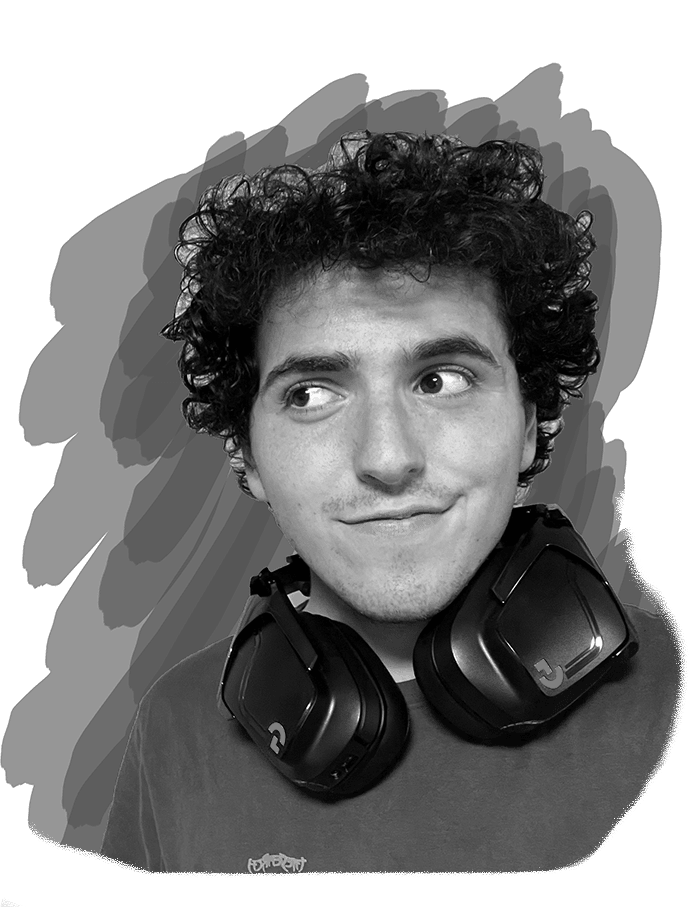
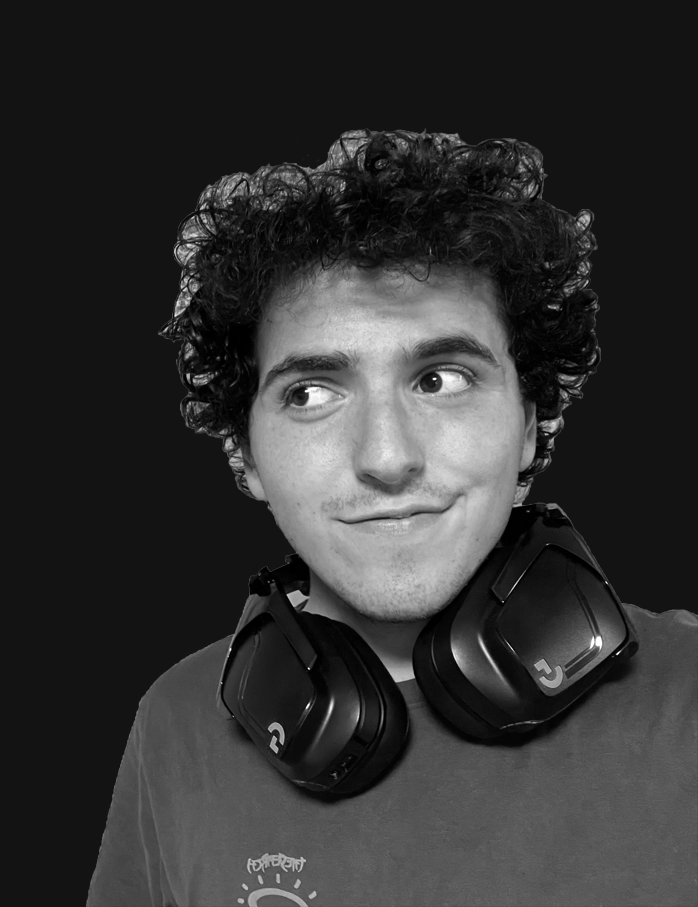
Finished Colour Fill, Added Title Animation

diff --git a/aboutme.html b/aboutme.html
@@ -11,14 +11,14 @@
 <body class="pagebody"> 
 
 <!-- Places Sidebar element + images, and references the relevant pages.--> 
-<div class="sidebar">
+<!-- <div class="sidebar">
 
     <div id="currentpage"><img class="sidebarlogo" src="../docs/about-me-symbol.png" alt="About Me Symbol" title="About Me"></div>
 
     <div class="noncurrent"><a href="./blog.html"><img class="sidebarlogo" src="../docs/blog-symbol.png" alt="Blog Symbol" title="Blog"></a></div>
 
     <div class="noncurrent"><a href="./contact.html"><img class="sidebarlogo" src="../docs/contact-symbol.png" alt="Contact Symbol" title="Contact Details"></a></div>
-</div>
+</div> -->
 
 <div class="bodyorganisation">
 
@@ -34,16 +34,18 @@
     <div id="aboutmesection">
 
         <div class="aboutmeheaders">
-            <h1 id="thisisme">Hi, I'm Bailey.</h1>
-            <h1>Here's a bit <span style="color:#703f37;">about me.</span></h1>
+            <h1 id="thisisme">Hi, I'm <span style="color:#703f37;">Bailey.</span></h1>
+            <h1>I make <span style="color:#703f37;">websites.</span></h1>
+        </div>
+
+        <div class="mask-container">
+            <img class="colour-image masksize" style="animation: addColour 600ms steps(19) forwards; animation-delay: 700ms;" src="/docs/newcolour.png">
+            <img src="./docs/newblack-white.png" class="masksize" alt="">
         </div>
 
     </div>  
 
-    <div class="mask-container">
-        <img class="colour-image masksize" style="animation: addColour 600ms steps(19) forwards; animation-delay: 700ms;" src="/docs/newcolour.png">
-        <img src="./docs/newblack-white.png" class="masksize" alt="">
-    </div>
+
 
 
 

diff --git a/stylesheets/newcss.css b/stylesheets/newcss.css
@@ -1,0 +1,88 @@
+@font-face { /* this uses a custom font, finds in the docs folder and names it Roboto */
+    font-family: Roboto;
+    src: url("../docs/Roboto-Regular.ttf");
+}
+
+@font-face {
+    font-family: ArchivoBlack;
+    src: url("../docs/ArchivoBlack-Regular.ttf");
+}
+
+.pagebody {
+    font: 1.5em/1.6em Roboto;
+    background-color: #0C1A1A;
+
+}
+
+.bodyorganisation {
+}
+
+
+#aboutmesection {
+    display: flex;
+    flex-direction: row;
+    justify-content: center;
+    align-content: center;
+    padding-inline: 5vw;
+}
+
+
+.aboutmeheaders {
+    display: flex;
+    flex-direction: column;
+    flex-wrap: wrap;
+    line-height: 200%;
+    align-self: center;
+    font-size: 1.8em;
+    font-family: ArchivoBlack;
+    color: #7f9882;
+}
+
+.mask-container {
+    position: relative;
+}
+
+.masksize {
+    width: 25rem;
+    border-radius: 25rem;
+}
+
+.colour-image {
+    position: absolute;
+
+    -webkit-mask-image: url('../docs/newimagemask.png');
+    -webkit-mask-size: cover;
+    -webkit-mask-position: 0% 0%;
+    mask-image: url('../docs/imagemask.png');
+    mask-size: cover;
+    mask-position: 0% 0%;
+
+
+    transition:
+        -webkit-mask-position 600ms steps(19);
+    }
+
+
+@keyframes addColour {
+    0% {
+        -webkit-mask-position: 0% 0%;
+        mask-position: 0% 0%;
+    }
+    100% {
+        -webkit-mask-position: 100% 0%;
+        mask-position: 100% 0%;
+    }
+}
+
+@keyframes colourReveal {
+    0% {
+        color: #403a39;
+    }
+    80% {
+        color: #403a39;
+    }
+    100% {
+        color: #703f37;
+    }
+}
+

diff --git a/newaboutme.html b/newaboutme.html
@@ -1,0 +1,36 @@
+<!DOCTYPE html> <!-- requirement to specify document type -->
+<html lang="en"> 
+
+<head> <!-- various accessability info-->
+    <title>Bailey Evans' Portfolio</title>
+
+    <link rel=stylesheet href=".\stylesheets\newcss.css"> <!-- this finds CSS styles from main.css in this repository -->
+    <link rel="icon" type="image/x-icon" href="../docs/baileyphoto.jpg"> <!-- sets webpage icon -->
+
+    <meta name="viewport" content="width=device-width, initial-scale=1.0"> 
+    <meta charset=utf-8>
+</head>
+
+
+
+<body class="pagebody"> 
+
+<div class="bodyorganisation">
+
+    <div id="aboutmesection">
+
+        <div class="aboutmeheaders">
+            <h1 id="thisisme">Hi, I'm <span style="color:#703f37; animation: colourReveal 2600ms forwards;">Bailey.</span></h1>
+            <h1>I make <span style="color:#703f37; animation: colourReveal 2600ms forwards;">websites.</span></h1>
+        </div>
+
+        <div class="mask-container">
+            <img class="colour-image masksize" style="animation: addColour 600ms steps(19) forwards; animation-delay: 1500ms;" src="/docs/newcolour.png">
+            <img src="./docs/newblack-white.png" class="masksize" alt="">
+        </div>
+
+    </div>  
+</div>
+</body>
+</html>
+

diff --git a/stylesheets/main.css b/stylesheets/main.css
@@ -65,6 +65,7 @@
     display: flex;
     flex-direction: row;
     margin-bottom: 6%;
+    justify-content: space-evenly;
 }
 
 #profilephoto {
@@ -77,10 +78,9 @@
 
 
 .aboutmeheaders {
-    margin-left: 2vw;
     display: flex;
     flex-direction: column;
-    margin-top: 4%;
+    align-self: center;
     font-size: 2.7vw;
     font-family: ArchivoBlack;
     color: #7f9882;
@@ -262,7 +262,7 @@ footer {
 }
 
 .masksize {
-    width: 30%;
+    width: 25rem;
 }
 
 .colour-image {
